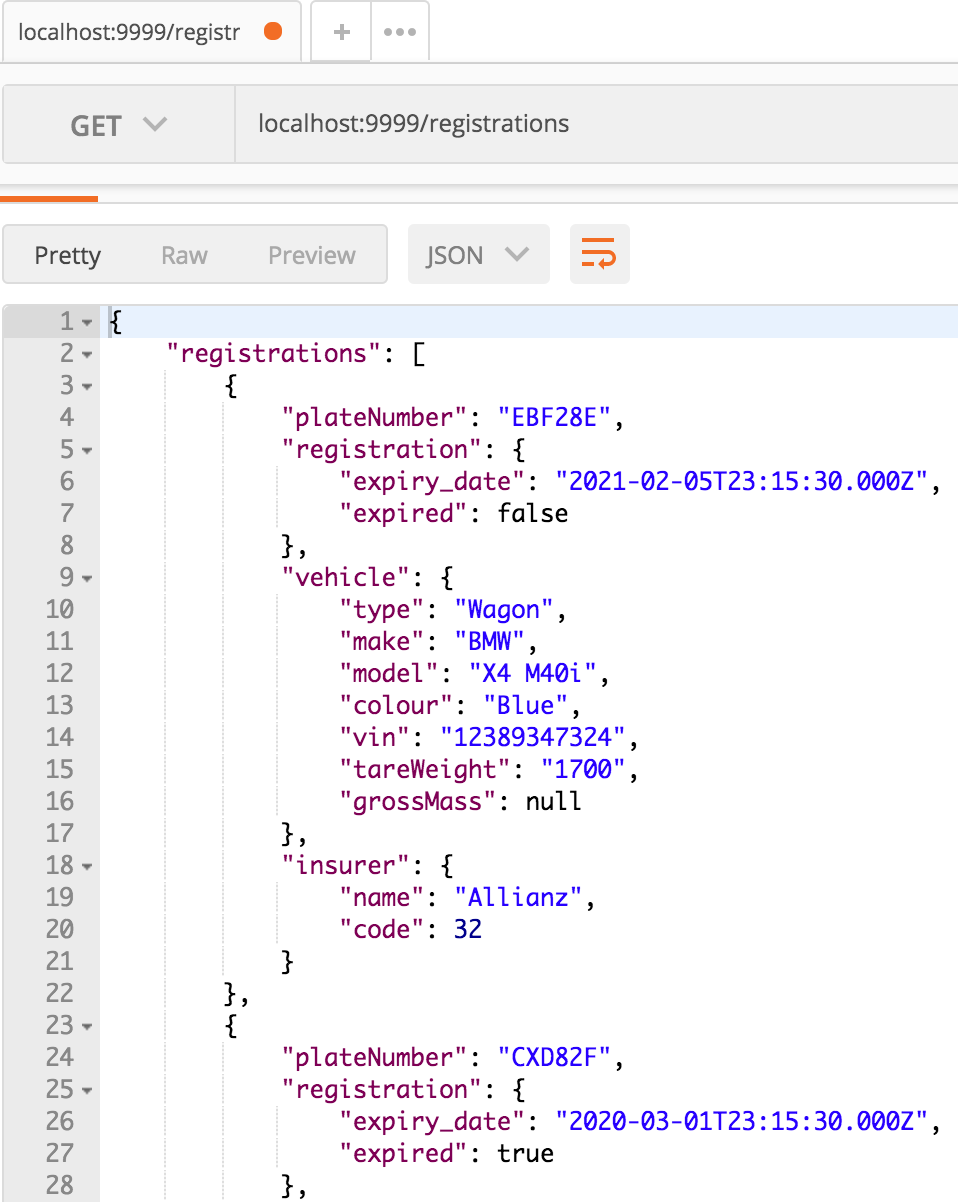
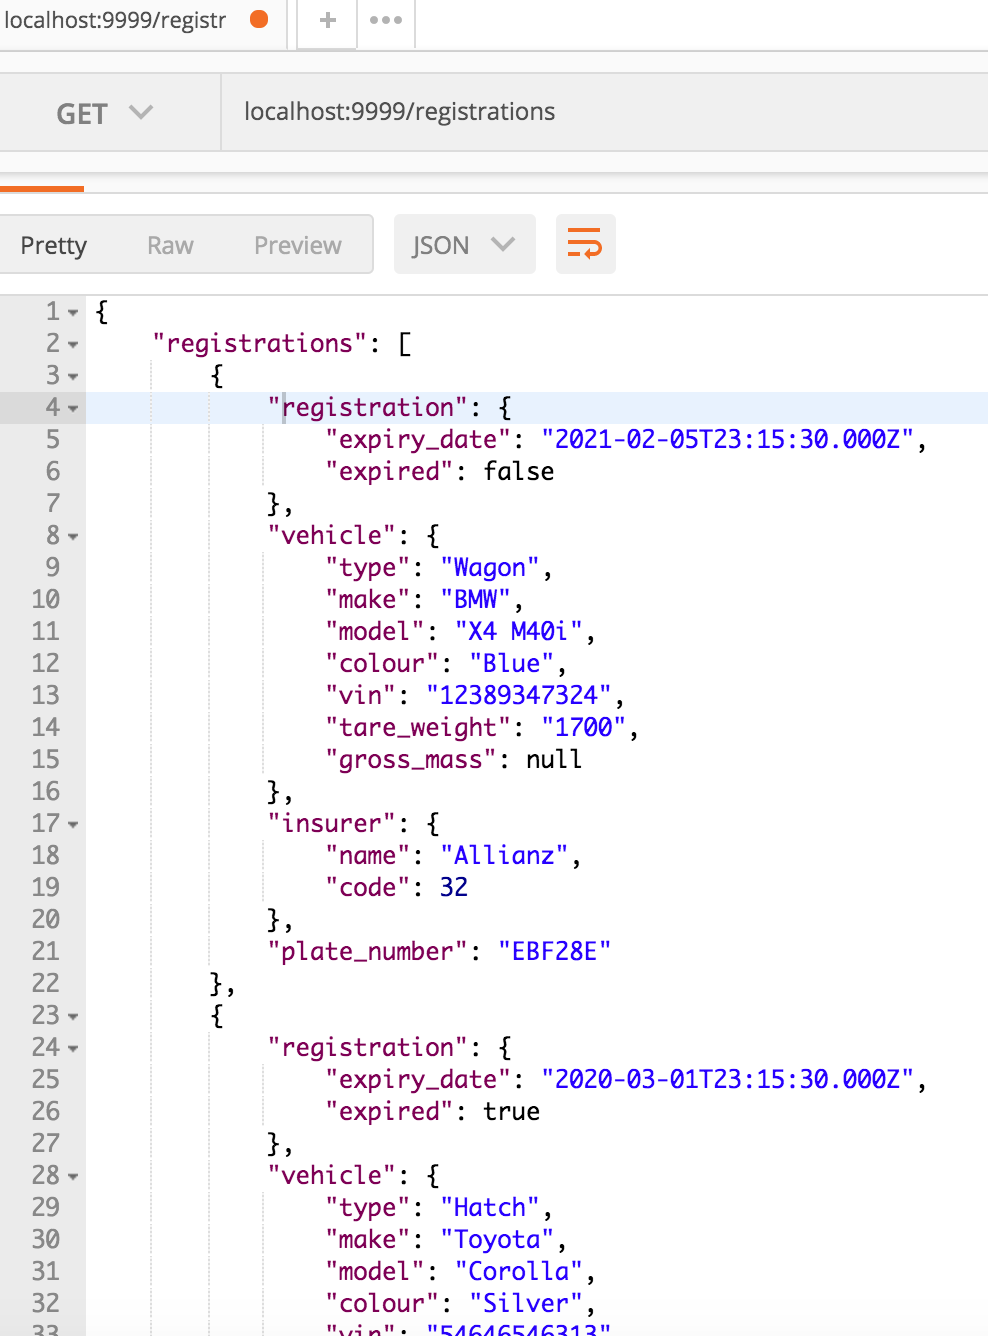
change shown json properties

diff --git a/src/main/java/com/foo/servicensw/model/Vehicle.java b/src/main/java/com/foo/servicensw/model/Vehicle.java
@@ -1,6 +1,7 @@
 package com.foo.servicensw.model;
 
 import com.fasterxml.jackson.annotation.JsonIgnore;
+import com.fasterxml.jackson.annotation.JsonProperty;
 import lombok.AllArgsConstructor;
 import lombok.Builder;
 import lombok.Data;
@@ -37,9 +38,11 @@ public class Vehicle implements Serializable {
 
     private String vin;
 
+    @JsonProperty("tare_weight")
     @Column(name = "tare_weight")
     private String tareWeight;
 
+    @JsonProperty("gross_mass")
     @Column(name = "gross_mass")
     private String grossMass;
 }

diff --git a/src/main/java/com/foo/servicensw/model/RegInfo.java b/src/main/java/com/foo/servicensw/model/RegInfo.java
@@ -1,6 +1,7 @@
 package com.foo.servicensw.model;
 
 import com.fasterxml.jackson.annotation.JsonIgnore;
+import com.fasterxml.jackson.annotation.JsonProperty;
 import lombok.AllArgsConstructor;
 import lombok.Builder;
 import lombok.Data;
@@ -34,6 +35,7 @@ public class RegInfo implements Serializable {
     @Column(name = "reg_info_id")
     private Integer regInfoId;
 
+    @JsonProperty("plate_number")
     @Column(name = "plate_number")
     private String plateNumber;
 
